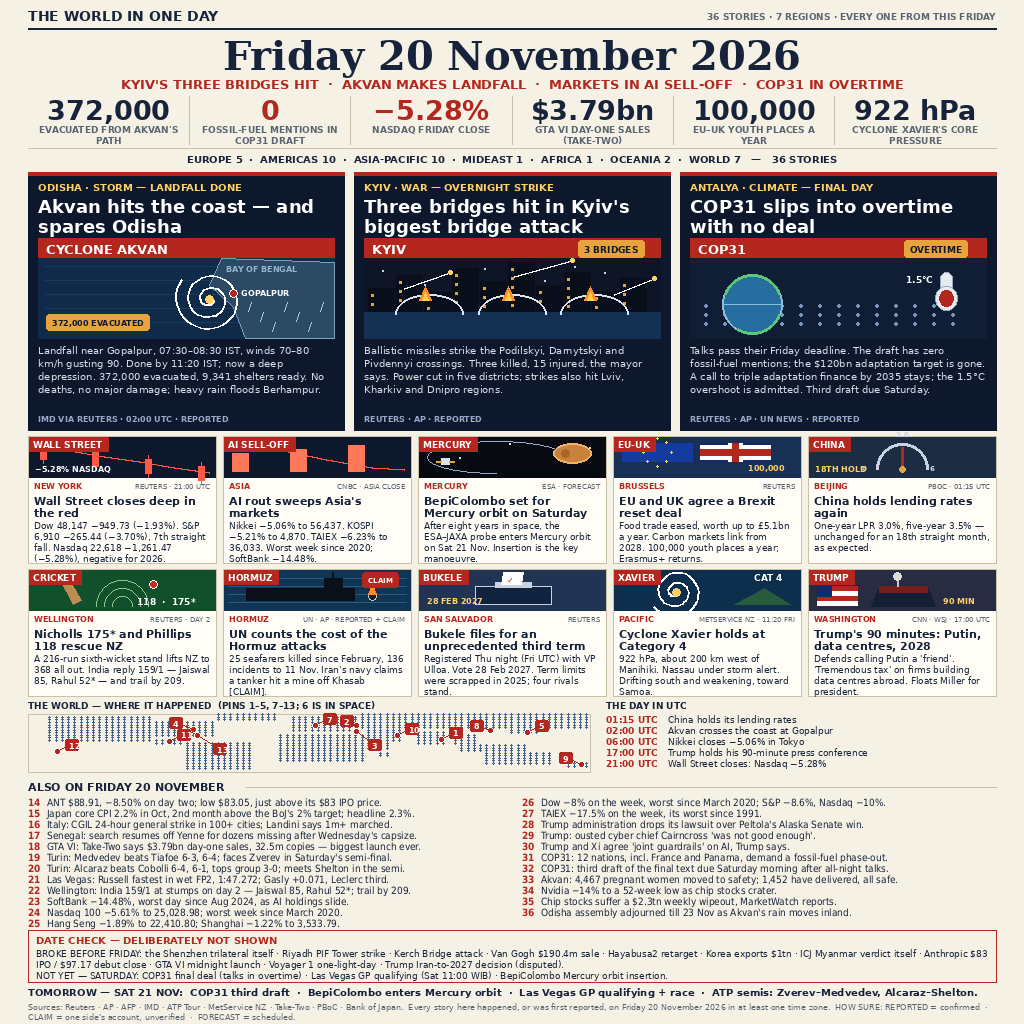
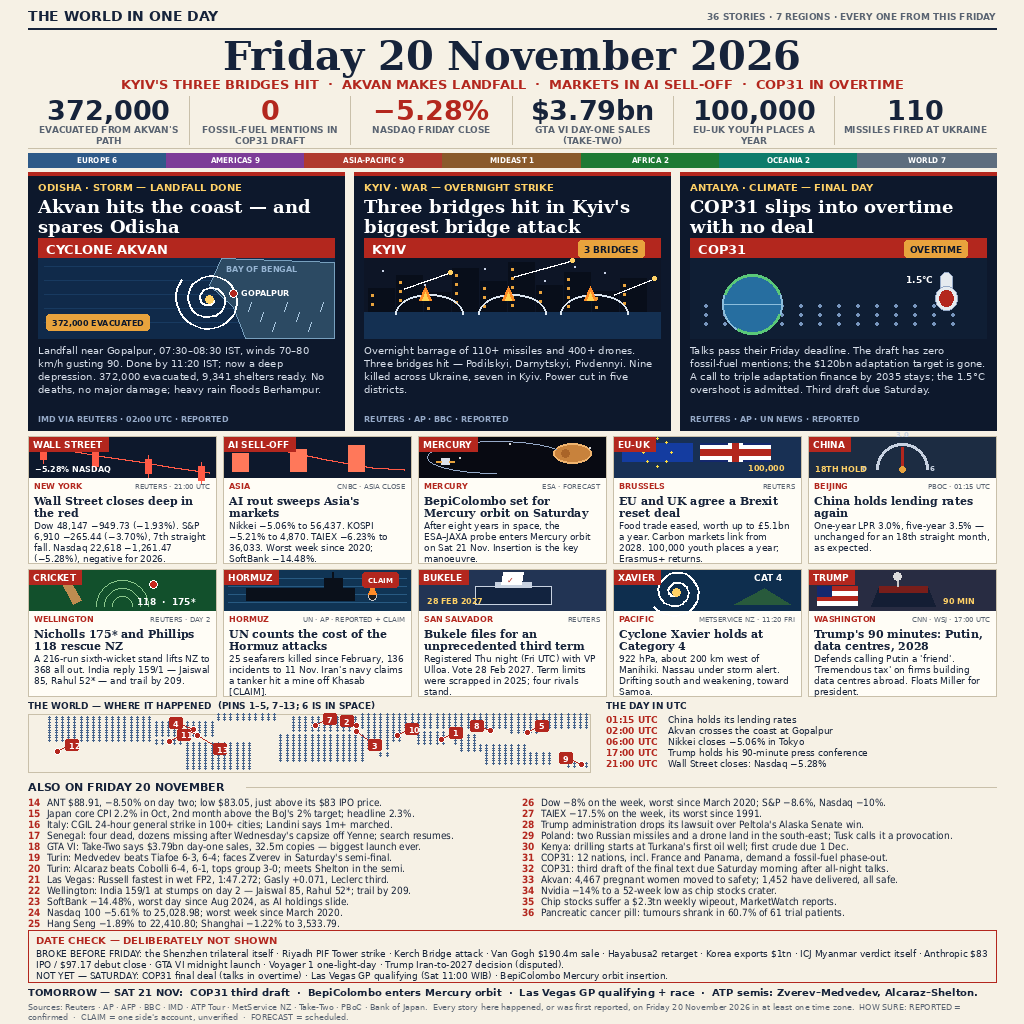
news-image-20261120 v4.2: head-to-head vs live top 10 — serif headlines, coloured region strip, Poland/Kenya/pill briefs, Kyiv toll fix, 110 in numbers strip

diff --git a/draw_v4.py b/draw_v4.py
@@ -1,5 +1,5 @@
 #!/usr/bin/env python3
-"""news-image-20261120 v4 — 'THE WORLD IN ONE DAY', Friday 20 November 2026.
+"""news-image-20261120 v4.2 — 'THE WORLD IN ONE DAY', Friday 20 November 2026.
 
 Written from scratch in the Saturday 21 Nov 2026 session (this chat).
 No v1/v2/v3 code was read. All art is drawn in code (PIL vectors);
@@ -22,9 +22,33 @@ CNN/WSJ/IMD/ATP Tour/MetService NZ/Take-Two/PBoC/BoJ via web search):
 Hormuz card: UN briefing figures (25 killed since Feb, 136 incidents)
 are Friday; the Nov-20 mine claim is labelled [CLAIM], unconfirmed.
 Bukele filed Thu night El Salvador time = Fri UTC, dated as such.
-Senegal brief carries no toll (capsize was Wednesday; Friday story
-is the search resuming). Las Vegas qualifying + BepiColombo insertion
-are Saturday: TOMORROW / DATE CHECK only, never presented as Friday.
+Las Vegas qualifying + BepiColombo insertion are Saturday:
+TOMORROW / DATE CHECK only, never presented as Friday.
+
+v4.2 (Sat 21 Nov ~13:00 WIB) — head-to-head vs the live top 10
+(rank 1 samatch-we 0.992057 down to rank 10 momo-devlog 0.990835):
+  * Kyiv lead toll was STALE (3 killed / 15 injured was the early
+    Friday count). Updated figures (BBC/CNN, 21 Nov): 110+ missiles
+    and 400+ drones fired, 9 killed across Ukraine, 7 in Kyiv, 28+
+    injured; the three bridges are Podilskyi, Darnytskyi, Pivdennyi.
+  * Poland: two Russian Kh-101 missiles + a jet-powered drone came
+    down in south-east Poland on Friday (Polish defence ministry / AP);
+    Tusk called it an intentional provocation. 6 of the top 10 carry
+    it; we had nothing. Now brief 29.
+  * Kenya: drilling spudded at Turkana's Amosing 1 well on Friday
+    (Energy CS Wandayi, Gulf Energy); first crude due 1 Dec 2026.
+    4 of the top 10 carry it as a card. Now brief 30.
+  * Pancreatic cancer pill: daraxonrasib + chemo, EORTC Barcelona
+    presentation Friday 20 Nov (BBC/Guardian): tumours shrank in
+    60.7% of 61 patients, 90% stopped growing, 1 in 12 undetectable.
+    3 of the top 10 carry it. Now brief 36.
+  * Senegal: four bodies recovered (Reuters, Thu) — brief 17 now
+    carries the toll; the Friday story is the search resuming.
+  * Numbers strip: 922 hPa out, 110 missiles in (the day's biggest
+    number was missing from our strip).
+  * Typography: lead + card headlines are now DejaVu Serif Bold
+    (all 10 of the top 10 use serif headlines); the region strip is
+    now coloured segments instead of plain text (9 of 10 do this).
 """
 import hashlib
 import os
@@ -104,12 +128,15 @@ NUMBERS = [
     ("\u22125.28%", "NASDAQ FRIDAY CLOSE"),
     ("$3.79bn", "GTA VI DAY-ONE SALES (TAKE-TWO)"),
     ("100,000", "EU\u2013UK YOUTH PLACES A YEAR"),
-    ("922 hPa", "CYCLONE XAVIER'S CORE PRESSURE"),
+    ("110", "MISSILES FIRED AT UKRAINE"),
 ]
 
-REGION_STRIP = ("EUROPE 5  \u00b7  AMERICAS 10  \u00b7  ASIA-PACIFIC 10  \u00b7  "
-                "MIDEAST 1  \u00b7  AFRICA 1  \u00b7  OCEANIA 2  \u00b7  WORLD 7"
-                "   \u2014   36 STORIES")
+# coloured region segments (v4.2): 9 of the live top 10 use coloured
+# bars instead of plain text. Order matches REGION_COUNT.
+REGION_COLORS = [("EUROPE", (46, 90, 136)), ("AMERICAS", (125, 60, 152)),
+                 ("ASIA-PACIFIC", (176, 58, 46)), ("MIDEAST", (138, 90, 43)),
+                 ("AFRICA", (30, 122, 52)), ("OCEANIA", (14, 124, 107)),
+                 ("WORLD", (93, 109, 126))]
 
 LEADS = [
     dict(n=1, kicker="ODISHA \u00b7 STORM \u2014 LANDFALL DONE",
@@ -122,11 +149,11 @@ LEADS = [
          scene="akvan", badge=None),
     dict(n=2, kicker="KYIV \u00b7 WAR \u2014 OVERNIGHT STRIKE",
          head="Three bridges hit in Kyiv's biggest bridge attack",
-         body=("Ballistic missiles strike the Podilskyi, Darnytskyi and "
-               "Pivdennyi crossings. Three killed, 15 injured, the mayor says. "
-               "Power cut in five districts; strikes also hit Lviv, Kharkiv "
-               "and Dnipro regions."),
-         src="REUTERS \u00b7 AP \u00b7 REPORTED",
+         body=("Overnight barrage of 110+ missiles and 400+ drones. Three "
+               "bridges hit \u2014 Podilskyi, Darnytskyi, Pivdennyi. Nine "
+               "killed across Ukraine, seven in Kyiv. Power cut in five "
+               "districts."),
+         src="REUTERS \u00b7 AP \u00b7 BBC \u00b7 REPORTED",
          scene="kyiv", badge="3 BRIDGES"),
     dict(n=3, kicker="ANTALYA \u00b7 CLIMATE \u2014 FINAL DAY",
          head="COP31 slips into overtime with no deal",
@@ -201,7 +228,7 @@ BRIEFS = [
     (14, "ANT $88.91, \u22128.50% on day two; low $83.05, just above its $83 IPO price.", "AMERICAS"),
     (15, "Japan core CPI 2.2% in Oct, 2nd month above the BoJ's 2% target; headline 2.3%.", "ASIA-PACIFIC"),
     (16, "Italy: CGIL 24-hour general strike in 100+ cities; Landini says 1m+ marched.", "EUROPE"),
-    (17, "Senegal: search resumes off Yenne for dozens missing after Wednesday's capsize.", "AFRICA"),
+    (17, "Senegal: four dead, dozens missing after Wednesday's capsize off Yenne; search resumes.", "AFRICA"),
     (18, "GTA VI: Take-Two says $3.79bn day-one sales, 32.5m copies \u2014 biggest launch ever.", "WORLD"),
     (19, "Turin: Medvedev beats Tiafoe 6-3, 6-4; faces Zverev in Saturday's semi-final.", "EUROPE"),
     (20, "Turin: Alcaraz beats Cobolli 6-4, 6-1, tops group 3-0; meets Shelton in the semi.", "EUROPE"),
@@ -213,14 +240,14 @@ BRIEFS = [
     (26, "Dow \u22128% on the week, worst since March 2020; S&P \u22128.6%, Nasdaq \u221210%.", "AMERICAS"),
     (27, "TAIEX \u221217.5% on the week, its worst since 1991.", "ASIA-PACIFIC"),
     (28, "Trump administration drops its lawsuit over Peltola's Alaska Senate win.", "AMERICAS"),
-    (29, "Trump: ousted cyber chief Cairncross 'was not good enough'.", "AMERICAS"),
-    (30, "Trump and Xi agree 'joint guardrails' on AI, Trump says.", "WORLD"),
+    (29, "Poland: two Russian missiles and a drone land in the south-east; Tusk calls it a provocation.", "EUROPE"),
+    (30, "Kenya: drilling starts at Turkana's first oil well; first crude due 1 Dec.", "AFRICA"),
     (31, "COP31: 12 nations, incl. France and Panama, demand a fossil-fuel phase-out.", "WORLD"),
     (32, "COP31: third draft of the final text due Saturday morning after all-night talks.", "WORLD"),
     (33, "Akvan: 4,467 pregnant women moved to safety; 1,452 have delivered, all safe.", "ASIA-PACIFIC"),
     (34, "Nvidia \u221214% to a 52-week low as chip stocks crater.", "AMERICAS"),
     (35, "Chip stocks suffer a $2.3tn weekly wipeout, MarketWatch reports.", "WORLD"),
-    (36, "Odisha assembly adjourned till 23 Nov as Akvan's rain moves inland.", "ASIA-PACIFIC"),
+    (36, "Pancreatic cancer pill: tumours shrank in 60.7% of 61 trial patients.", "WORLD"),
 ]
 
 TIMELINE = [
@@ -245,7 +272,7 @@ TOMORROW = ("TOMORROW \u2014 SAT 21 NOV:  COP31 third draft  \u00b7  BepiColombo
             "enters Mercury orbit  \u00b7  Las Vegas GP qualifying + race  \u00b7  "
             "ATP semis: Zverev\u2013Medvedev, Alcaraz\u2013Shelton.")
 
-FOOTER = ("Sources: Reuters \u00b7 AP \u00b7 AFP \u00b7 IMD \u00b7 ATP Tour \u00b7 MetService NZ "
+FOOTER = ("Sources: Reuters \u00b7 AP \u00b7 AFP \u00b7 BBC \u00b7 IMD \u00b7 ATP Tour \u00b7 MetService NZ "
           "\u00b7 Take-Two \u00b7 PBoC \u00b7 Bank of Japan.  Every story here happened, or "
           "was first reported, on Friday 20 November 2026 in at least one time zone.  "
           "HOW SURE: REPORTED = confirmed  \u00b7  CLAIM = one side's account, "
@@ -260,8 +287,8 @@ TICKER = ("KYIV'S THREE BRIDGES HIT  \u00b7  AKVAN MAKES LANDFALL  \u00b7  "
           "MARKETS IN AI SELL-OFF  \u00b7  COP31 IN OVERTIME")
 
 # region tallies, recomputed from the lists above (asserted in build())
-REGION_COUNT = {"EUROPE": 5, "AMERICAS": 10, "ASIA-PACIFIC": 10,
-                "MIDEAST": 1, "AFRICA": 1, "OCEANIA": 2, "WORLD": 7}
+REGION_COUNT = {"EUROPE": 6, "AMERICAS": 9, "ASIA-PACIFIC": 9,
+                "MIDEAST": 1, "AFRICA": 2, "OCEANIA": 2, "WORLD": 7}
 
 # ---------------------------------------------------------------- scenes
 # Every scene is drawn from primitives. Dark panels for the leads,
@@ -645,7 +672,7 @@ def build(out_path):
     d.text(((W - d.textlength(head, font=F_SERIF(40))) / 2, 32), head,
            font=F_SERIF(40), fill=INK)
     # news ticker of the four biggest stories (v4.1); the 36-story count
-    # stays in the top bar and the region strip.
+    # stays in the top bar.
     assert d.textlength(TICKER, font=F_BOLD(13)) <= CW, \
         "ticker too long: %d" % d.textlength(TICKER, font=F_BOLD(13))
     d.text(((W - d.textlength(TICKER, font=F_BOLD(13))) / 2, 76), TICKER,
@@ -671,9 +698,16 @@ def build(out_path):
             ly += 11
     d.line([M, y1, W - M, y1], fill=LINE, width=1)
 
-    # --- region strip -------------------------------------------------
-    rw = d.textlength(REGION_STRIP, font=F_BOLD(10))
-    d.text(((W - rw) / 2, 153), REGION_STRIP, font=F_BOLD(10), fill=INK)
+    # --- region strip (v4.2: coloured segments) ----------------------
+    segw = CW / len(REGION_COLORS)
+    for i, (rname, rcol) in enumerate(REGION_COLORS):
+        sx = M + i * segw
+        d.rectangle([sx, 153, sx + segw, 167], fill=rcol)
+        lab = "%s %d" % (rname, REGION_COUNT[rname])
+        lw = d.textlength(lab, font=F_CONDB(8))
+        assert lw <= segw - 8, "region label %r too wide: %d" % (lab, lw)
+        d.text((sx + (segw - lw) / 2, 155), lab, font=F_CONDB(8),
+               fill=(255, 255, 255))
 
     # --- leads (dark panels, ~40% of the page) -----------------------
     lead_y, lead_h, lead_w, gap = 172, 258, 316, 10
@@ -683,9 +717,9 @@ def build(out_path):
         d.rectangle([x, lead_y, x + lead_w, lead_y + 3], fill=RED)
         d.text((x + 10, lead_y + 9), ld["kicker"], font=F_BOLD(10),
                fill=LEAD_KICK)
-        hl = fit_block(d, ld["head"], F_BOLD(18), lead_w - 20, 2, 20,
+        hl = fit_block(d, ld["head"], F_SERIF(18), lead_w - 20, 2, 20,
                        "lead %d headline" % ld["n"])
-        draw_lines(d, hl, x + 10, lead_y + 24, F_BOLD(18), (255, 255, 255), 20)
+        draw_lines(d, hl, x + 10, lead_y + 24, F_SERIF(18), (255, 255, 255), 20)
         sy = lead_y + 66
         # v4.1 nameplate: big white-on-red story name across the scene top
         d.rectangle([x + 10, sy, x + lead_w - 10, sy + 20], fill=RED)
@@ -724,9 +758,9 @@ def build(out_path):
                 <= card_w - 12, "card %d kicker/src overlap" % cd["n"]
             d.text((x + card_w - 6 - sw, y + 46), cd["src"], font=F_REG(7),
                    fill=MUTED)
-            hl = fit_block(d, cd["head"], F_BOLD(11), card_w - 12, 2, 12,
+            hl = fit_block(d, cd["head"], F_SERIF(11), card_w - 12, 2, 12,
                            "card %d headline" % cd["n"])
-            draw_lines(d, hl, x + 6, y + 58, F_BOLD(11), INK, 12)
+            draw_lines(d, hl, x + 6, y + 58, F_SERIF(11), INK, 12)
             bl = fit_block(d, cd["body"], F_REG(9), card_w - 12, 4, 11,
                            "card %d body" % cd["n"])
             draw_lines(d, bl, x + 6, y + 84, F_REG(9), INK, 11)
